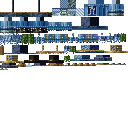
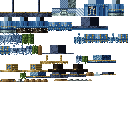
Tidecallers tiers II/III: Admiral Vael

Changed region(s): [[0.0, 0.25, 1.0, 0.6562]]

diff --git a/art/hand/tc_admiral/build_tc_admiral.py b/art/hand/tc_admiral/build_tc_admiral.py
@@ -5,7 +5,10 @@ The grandest Tidecaller: a once-magnificent naval coat gone to the sea. The sign
 sea-blue plume, a cockade), over a pale drowned face with silver hair adrift. A deep sea-navy coat with sea-blue lapels, cuffs and collar,
 double rows of gilt buttons, a sea-blue sash with a gilt buckle, gilt epaulettes with fringe, and four calf-length coat tails flaring from
 the waist, hems ragged and hung with kelp, barnacles crusted on the shoulders. A tarnished anchor is slung on the back (back gear, no flag).
-Gilt #96783A is trim only; the sea blue stays the larger share. Team cloth: the sash end at the hip and the cravat. Tier I only.
+Gilt #96783A is trim only; the sea blue stays the larger share. Team cloth: the sash end at the hip and the cravat. Tier II (the Drowned Commodore): a bronze
+half-cuirass rimmed in sea blue under the lapels, plate pauldrons under the epaulettes, vambraces and greaves, a bronze-studded
+sea-blue hat band. Tier III (the Drowned Tide): deep sea-blue plate chased in warm bronze, a ring of pearls round the tricorne
+crown, a pearl at the gorget and a third plume.
 
   python build_tc_admiral.py preview <dir> [side] | contact <png> [side] | stub | install
 """
@@ -17,6 +20,8 @@ sys.path.insert(0, os.path.join(HERE, "..", "tc_harpooner"))
 from handlib import *   # noqa: F401,F403
 import handlib as H
 import house_stub
+sys.path.insert(0, os.path.join(HERE, "..", "common"))
+import tidecallers as TC
 import build_tc_tideguard as TG
 import build_tc_harpooner as HP
 from build_tc_tideguard import VERD as SEA, FLESH, BARN, scuff, rng
@@ -484,15 +489,30 @@ def bones():
         Box((-3.4, -2.8, 0), (6.8, 1.6, 1.3), anchor_iron("br")),                      # the crown bar of the arms
         Box((-4.4, -4.4, 0.1), (1.6, 2.0, 1.2), anchor_iron("al")), Box((2.8, -4.4, 0.1), (1.6, 2.0, 1.2), anchor_iron("ar")),
         Box((-4.8, -6.2, 0.1), (2.2, 2.0, 1.2), anchor_iron("fl")), Box((2.6, -6.2, 0.1), (2.2, 2.0, 1.2), anchor_iron("fr"))]))
+    # tier II, the Drowned Commodore: a half-cuirass, plate pauldrons under the epaulettes, vambraces, greaves, a hat band
+    B.append(Bone("cuirass", "body", stages=[2, 3], boxes=[Box((-4.3, -10.8, -2.7), (8.6, 5.6, 1.2), TC.P("adcu", 0.02), dil=0.1)]))
+    B.append(Bone("hat_band", "head", tag="helm", stages=[2, 3], boxes=[Box((-4.9, -8.6, -4.9), (9.8, 1.4, 9.8), TC.band("adhb"), dil=0.05)]))
+    for side in ("right", "left"):
+        c = -1 if side == "right" else 1
+        B.append(Bone(f"{side}_pauldron", f"{side}_arm", (c, -1.8, 0), rot=(0, 0, 16 * c), stages=[2, 3], boxes=[
+            Box((-3.6 + 0.5 * c, -0.4, -3.2), (7.2, 3, 6.4), TC.P("adpd" + side, 0.03), dil=0.15)]))
+        B.append(Bone(f"{side}_vambrace", f"{side}_arm", stages=[2, 3], boxes=[Box((-2.2 + (0 if side == "right" else -1), 4, -2.2), (4.4, 3.5, 4.4), TC.P("advb" + side, 0.02), dil=0.1)]))
+        B.append(Bone(f"{side}_greave", f"{side}_leg", stages=[2, 3], boxes=[Box((-2.3, 4.5, -2.3), (4.6, 4.5, 4.6), TC.P("adgv" + side, 0.03), dil=0.1)]))
+    # tier III, the Drowned Tide: a ring of pearls round the tricorne crown, a gorget pearl, a third plume
+    for i, (x, z) in enumerate([(-3.6, -4.8), (-1.2, -5.0), (1.2, -5.0), (3.6, -4.8), (-4.8, -2), (4.8, -2), (-4.8, 1), (4.8, 1)]):
+        B.append(Bone(f"hat_pearl{i}", "head", tag="helm", stages=[3], boxes=[Box((x - 0.5, -12, z - 0.5 + (0.6 if abs(x) > 4 else 0)), (1, 1, 1), TC.tc_pearl())]))
+    B.append(Bone("gorget_pearl", "body", stages=[3], boxes=[Box((-1, -11.2, -3.4), (2, 2, 1), TC.tc_pearl())]))
+    B.append(Bone("plume_c", "head", (5.4, -11, -1.4), rot=(-20, 0, -48), tag="helm", stages=[3], boxes=[Box((-0.6, -1, -1.2), (1, 6, 3), plume("c"))]))
     return B
 
 NOTE = ("Admiral Vael, the Drowned Tide (unit identity, Tidecallers, Legendary): drowned naval admiral, biped, upright; the 12 px tricorne in sodden felt with "
         "gilt lace, a sea-blue plume and cockade (the signature), a bone-pale face with silver hair adrift, a deep sea-navy coat with sea-blue lapels, cuffs "
         "and collar, double rows of gilt buttons, a sea-blue sash with a gilt buckle, gilt fringed epaulettes, four calf-length coat tails with ragged hems, "
         "tarred boots, kelp and barnacles, a team sash end and cravat. A tarnished anchor is slung on the back (back gear). The admiral trident is in the "
-        "right hand. No coral. Tier I only. No back flag.")
+        "right hand. No coral. Tier II a bronze half-cuirass, plate pauldrons, vambraces and greaves; tier III deep sea-blue plate, "
+        "a ring of pearls round the tricorne and a third plume. No back flag.")
 TC_ADMIRAL = Troop("tc_admiral", SKIN, CLOTH, bones, cloth_painter,
-                   {"weapon": "admiral_trident", "hand": "right", "idleArms": "hang", "portrait": "tall 4"}, tiers=(1,))
+                   {"weapon": "admiral_trident", "hand": "right", "idleArms": "hang", "portrait": "tall 4"})
 def build(): return TC_ADMIRAL.build()
 def outputs(): return TC_ADMIRAL.outputs()
 
